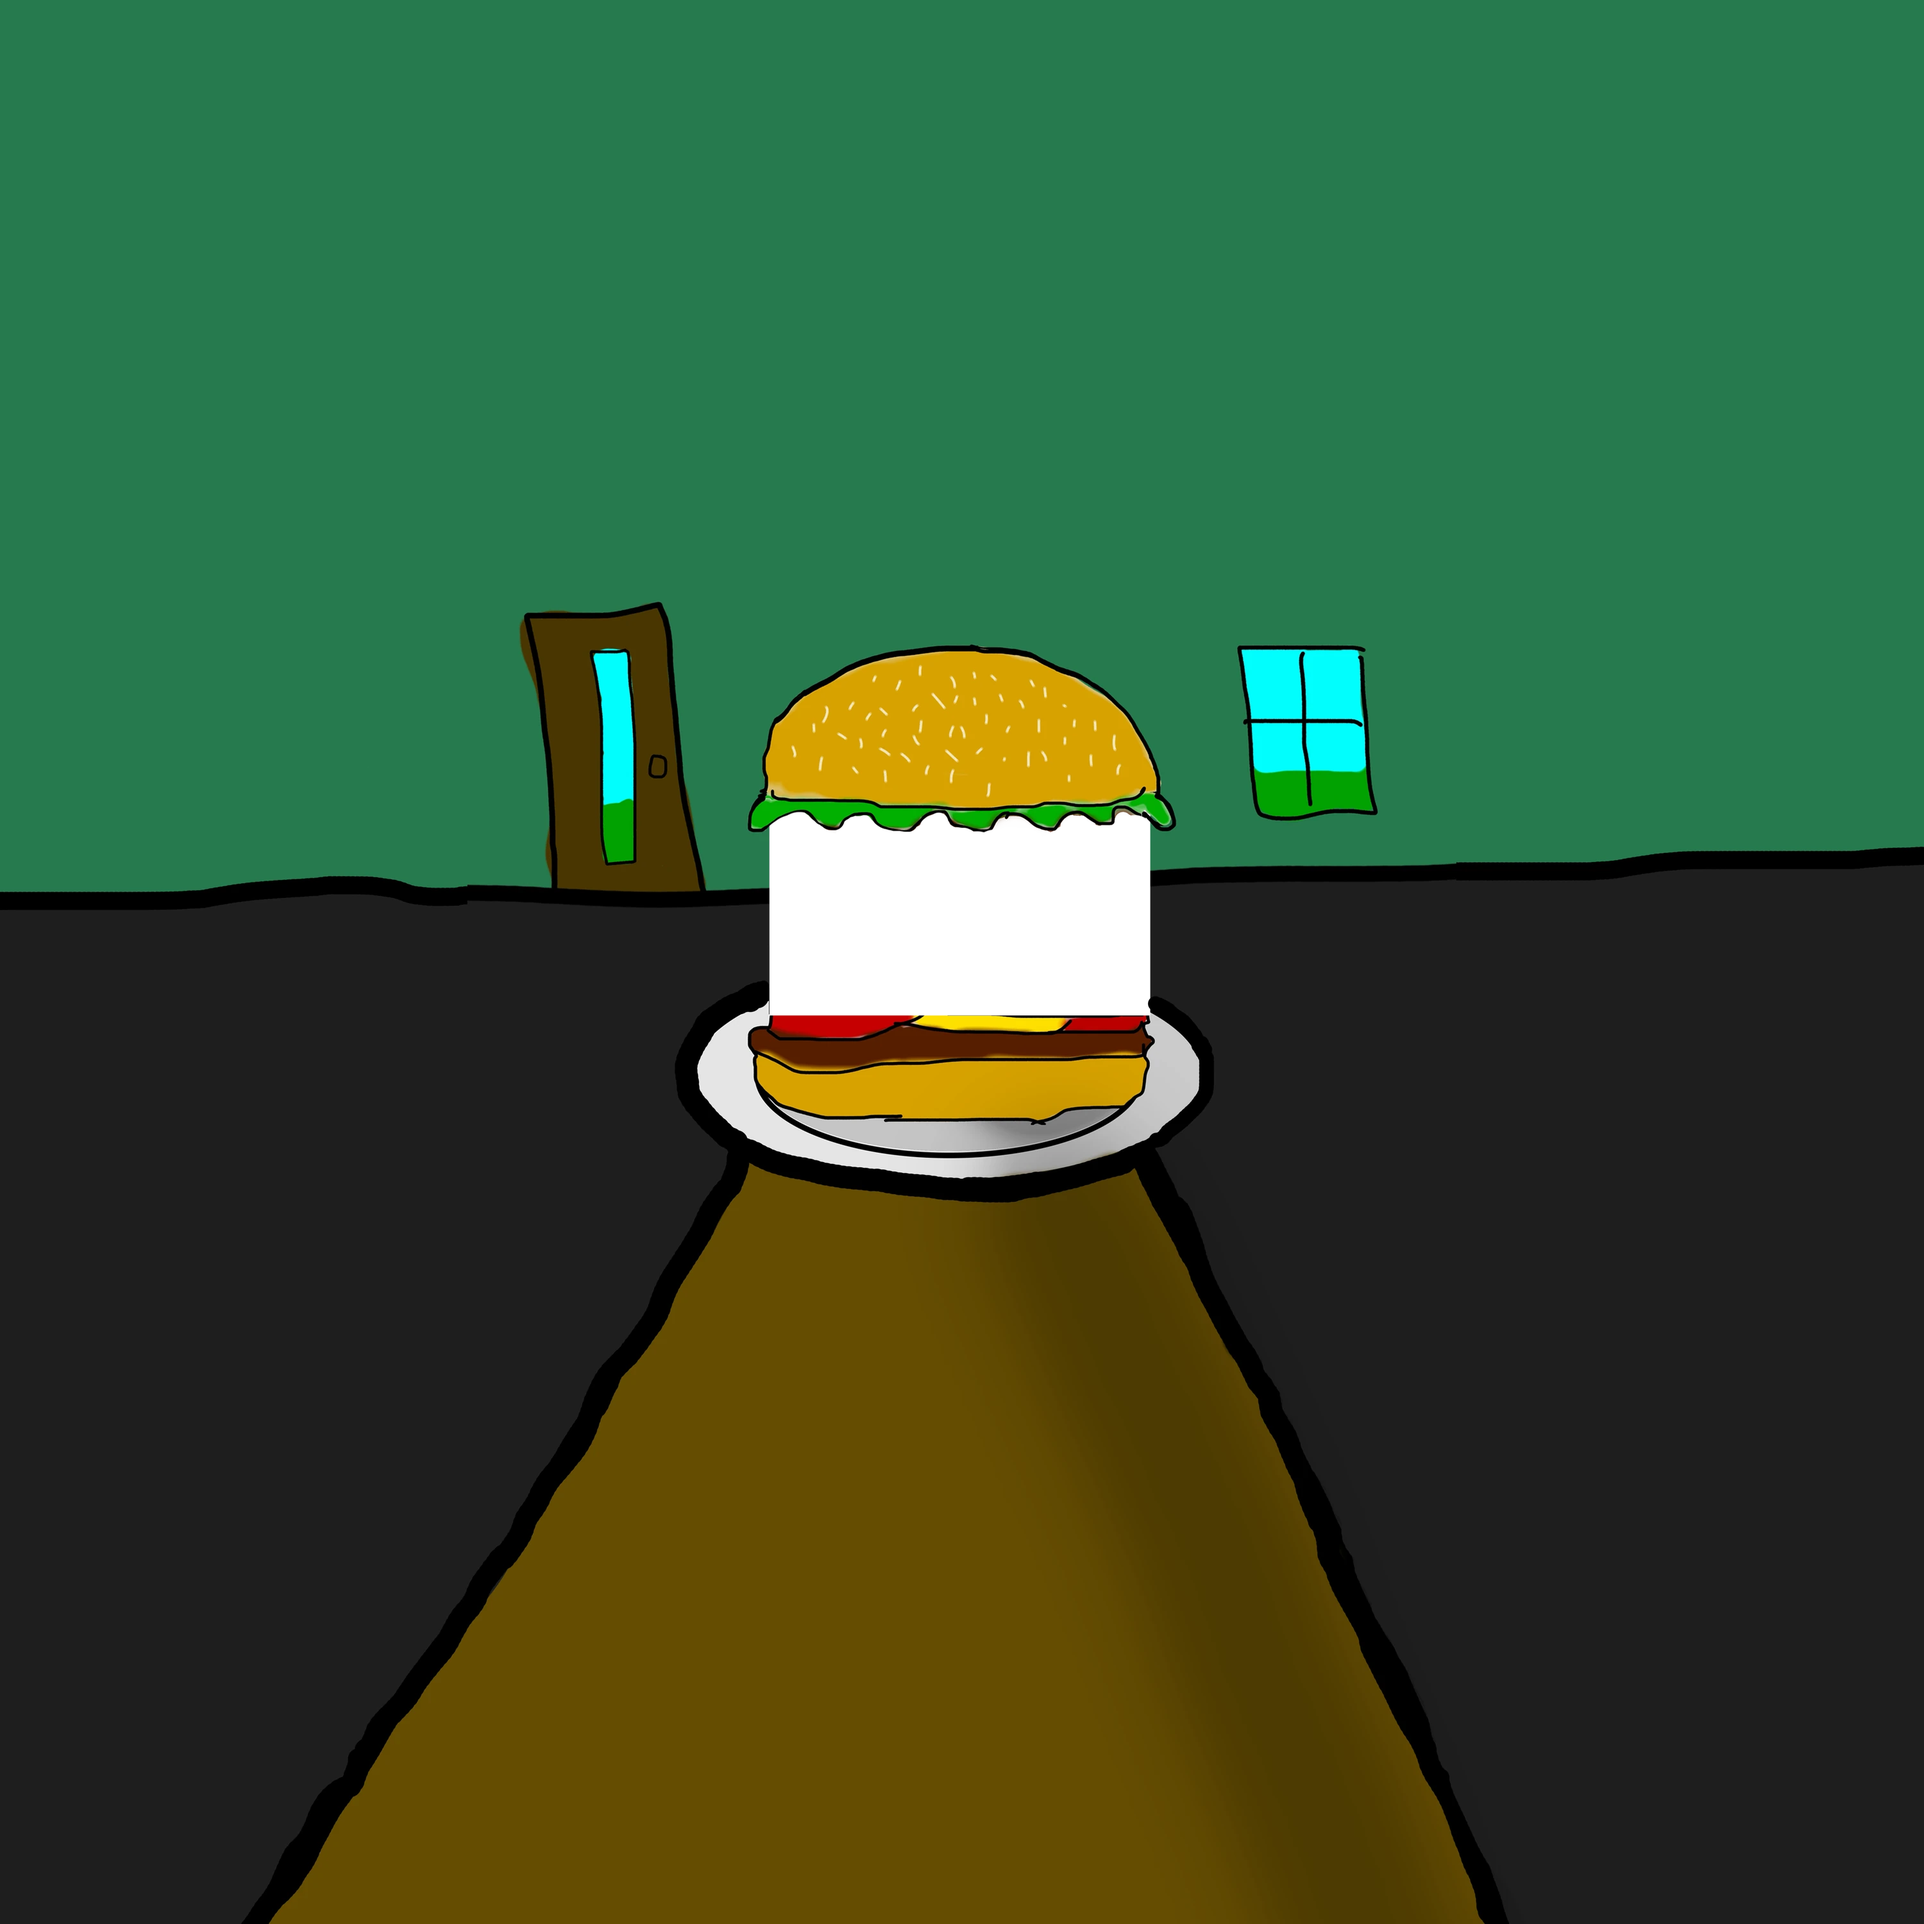
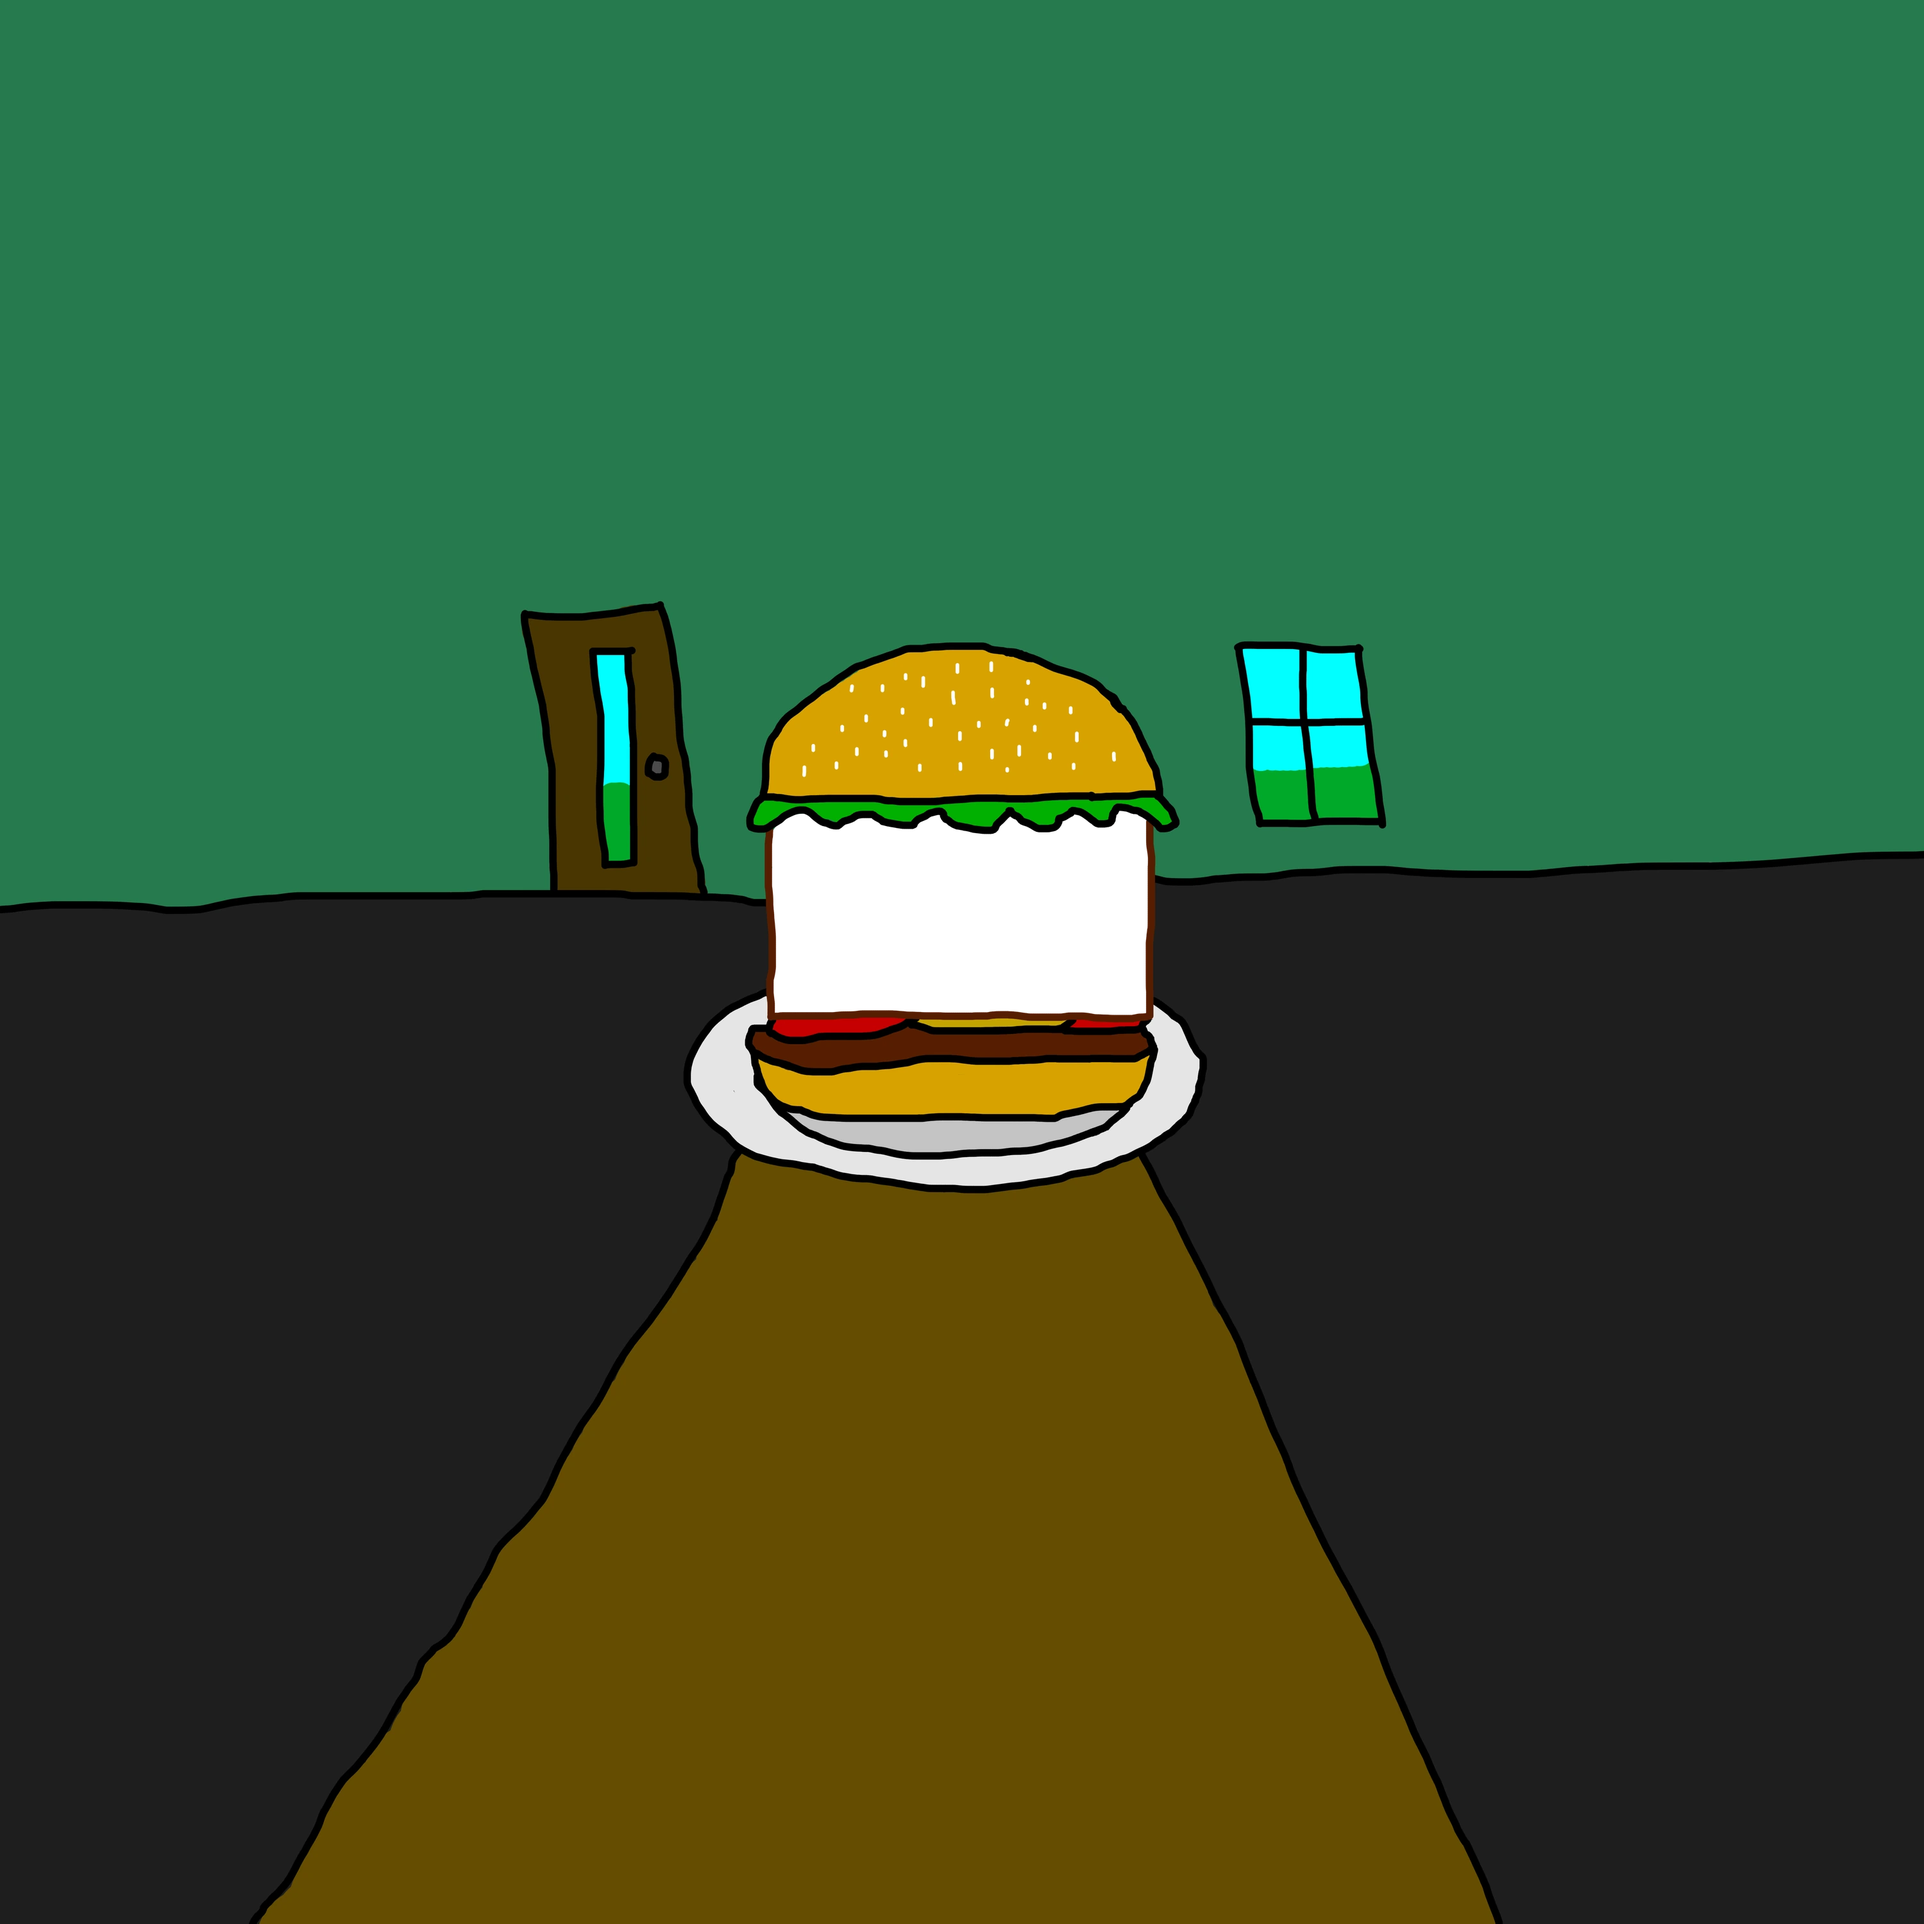
Swap in the redrawn, sharper hamburgernews.html background (#195)
Same 8000x8000 canvas and composition as before, redrawn sharper by
the artist. Re-measured the video slot's transparent region rather
than reusing the old coordinates — close, but not identical (a
~10-20px shift on most edges) — and this version adds a proper brown
border frame around the slot on all four sides (the previous asset's
sides were flush against the plain wall/floor color with no border).

HOLE_RECT is deliberately sized to the FULLEST reach of the
transparency (the shallowest point on each tapered edge, not the
"safe" common core all columns share) — checked via a placeholder
composite, confirmed the video is meant to peek out from underneath
the border/lettuce/condiment art where those dip into the slot, same
as the very first version of this background before the padded-canvas
rework, not sit inset from them.

Claude-Session: https://claude.ai/code/session_01RVMg3wsTPeXxdVLDuJgvZV

diff --git a/videos/hamburgernews.html b/videos/hamburgernews.html
@@ -25,8 +25,14 @@
      the door/window/burger/plate — the artist's own fix for the earlier,
      much-smaller-canvas version, which needed careful (and fragile)
      padding-amount math to get the same guarantee. The video's slot is
-     the one part of that canvas left transparent (a clean rectangle,
-     3200,3371 to 4781,4219 in the source file's own pixel space).
+     the one part of that canvas left transparent — drawn with its own
+     brown border frame on all four sides, and (like the lettuce fringe
+     over the top edge) a few px of intentional overlap where the border/
+     lettuce/condiment art dips into the slot rather than butting flush
+     against it, so HOLE_RECT below is sized to the FULL reach of that
+     transparency (the shallowest point on each edge, not the safe common
+     core) — the video is meant to peek out from underneath those
+     overlapping bits, not sit inset from them. */
 
      #stageBg and #pattySlot (the video) are both positioned by the same
      JS layout() below rather than CSS object-fit:cover — see that
@@ -152,7 +158,7 @@
   // the art ever changes; the saved (smaller) hamburger-news-bg.webp
   // doesn't matter since this is all aspect-ratio math.
   var IMG_W = 8000, IMG_H = 8000;
-  var HOLE_RECT = { x: 3200, y: 3371, w: 1581, h: 848 };
+  var HOLE_RECT = { x: 3211, y: 3373, w: 1560, h: 845 };
   // Plain cover-fit scale alone renders the video too small to read on
   // an ordinary desktop window once the background canvas is this much
   // bigger than the video slot cut into it — this floors the video's own
